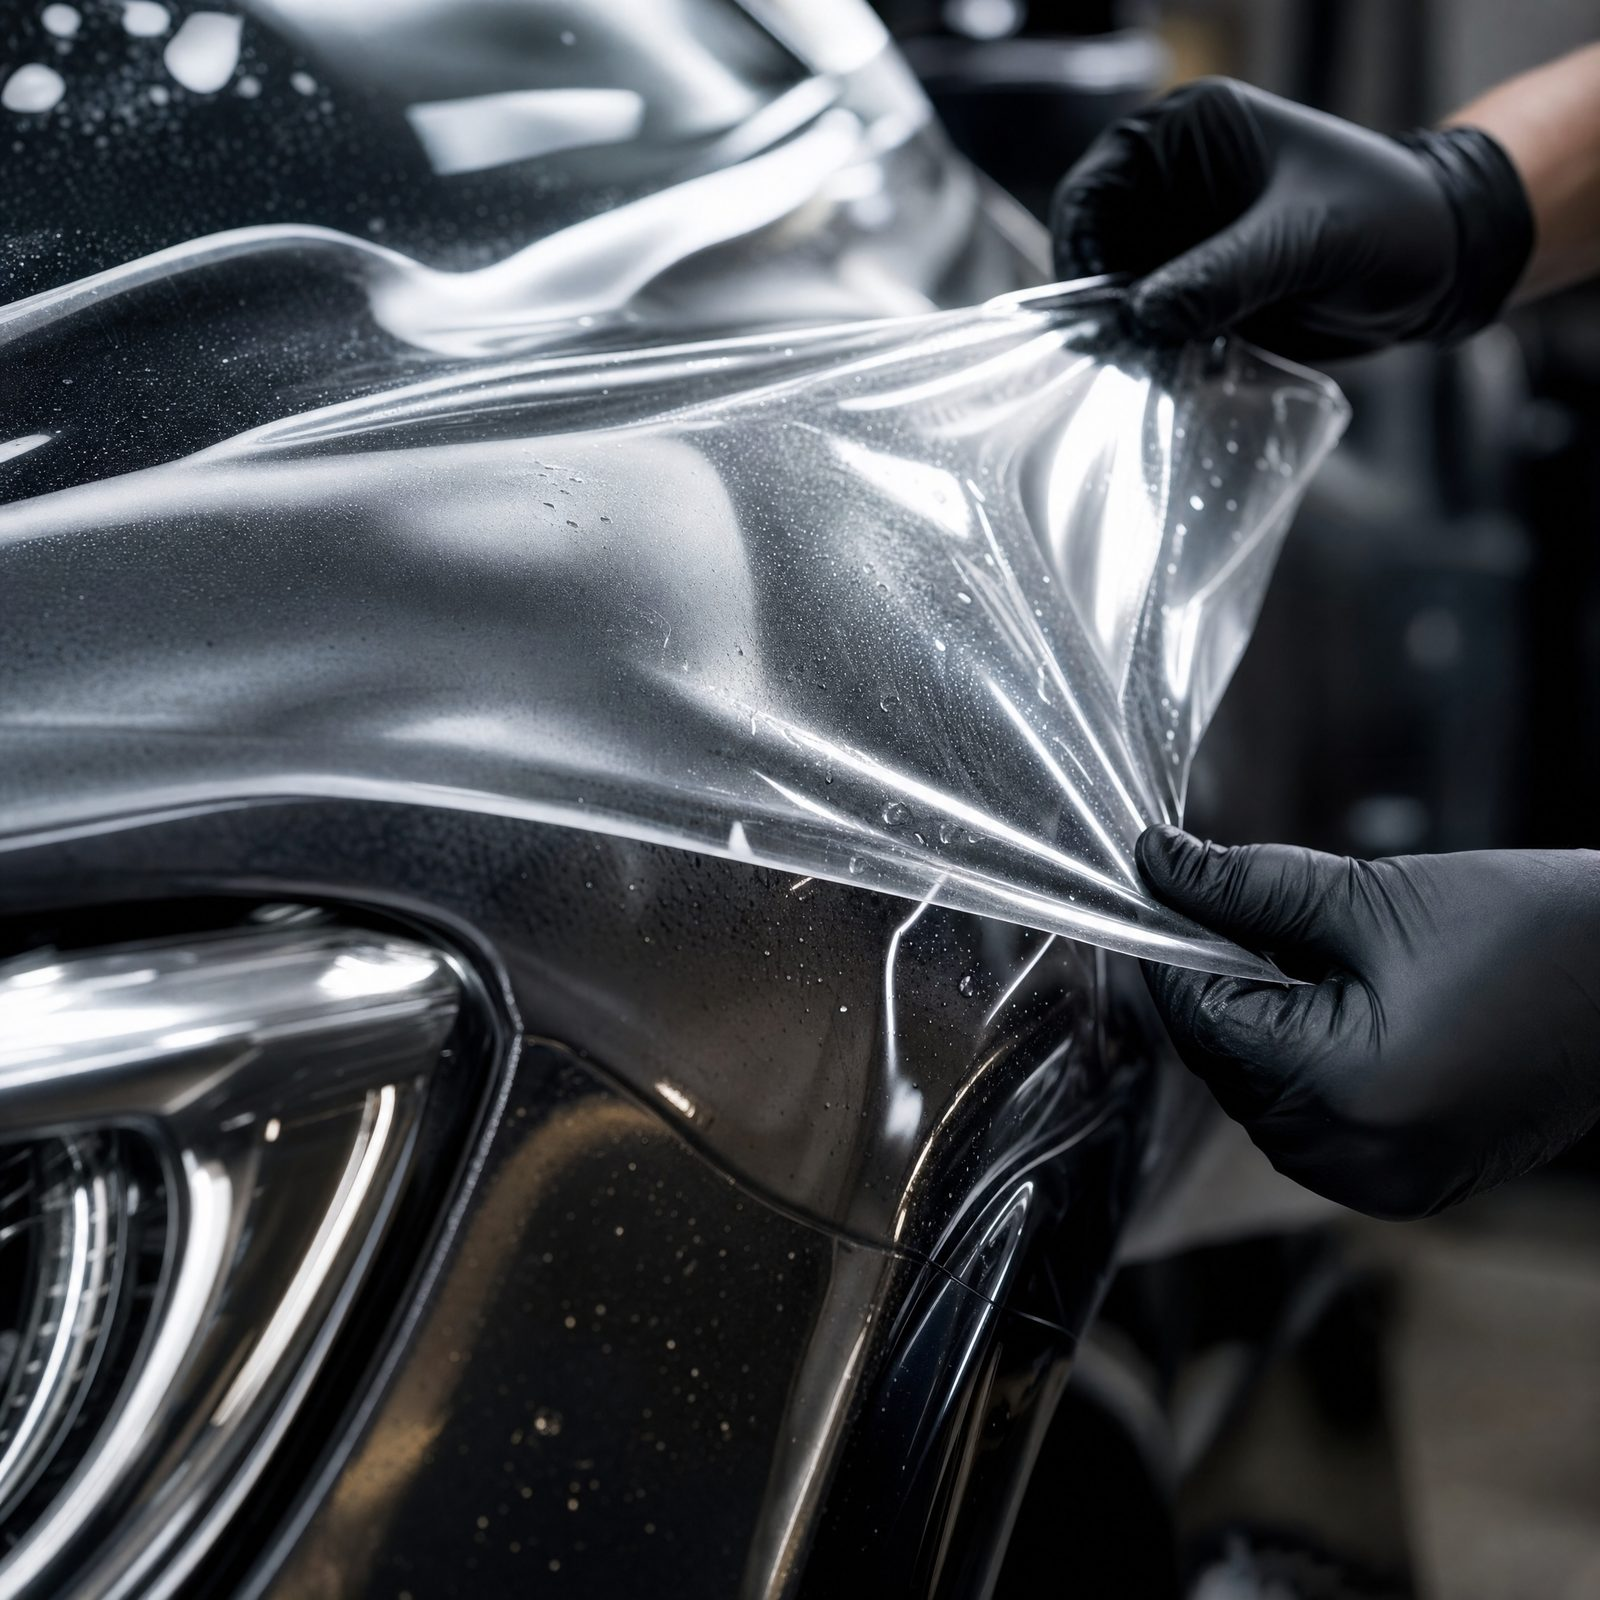
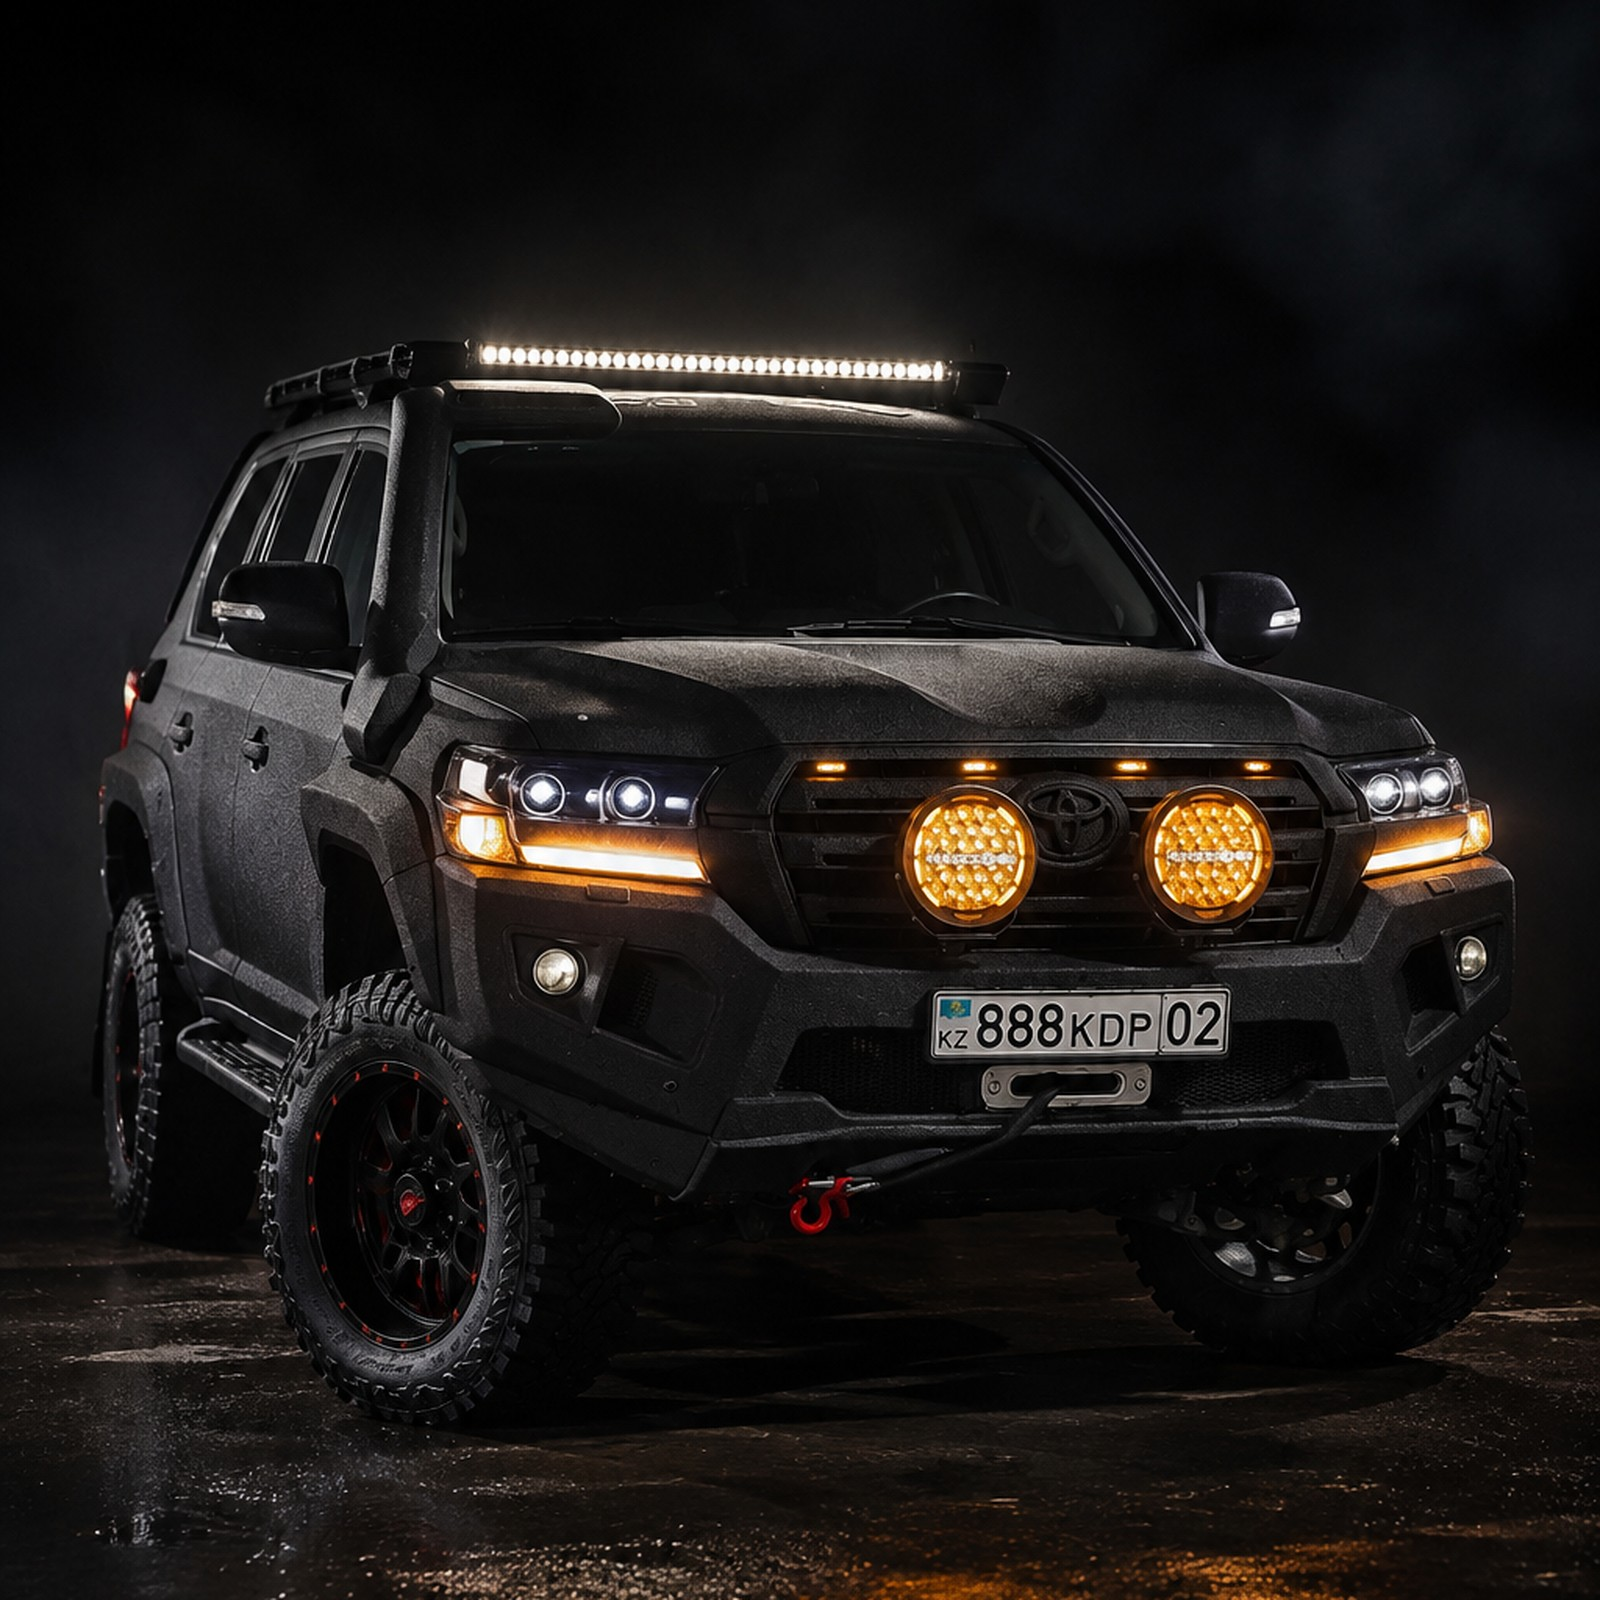
правки

diff --git a/index.html b/index.html
@@ -123,7 +123,8 @@ h2.sec{font-size:clamp(32px,5vw,44px);font-weight:700}
 /* fabs */
 .fabs{position:fixed;right:20px;bottom:20px;z-index:40;display:flex;flex-direction:column;gap:12px}
 .fab{width:48px;height:48px;border-radius:999px;display:grid;place-items:center;color:#fff;font-size:20px;box-shadow:0 8px 20px rgba(0,0,0,.4)}
-.fab.wa{background:#22c55e}
+.fab.wa{background:linear-gradient(135deg,#25d366,#1ea952);border-radius:16px}
+.fab.wa:hover{filter:brightness(1.08)}
 .fab.grad{color:#0d0e10}
 /* modal */
 .modal{position:fixed;inset:0;z-index:60;background:rgba(0,0,0,.7);display:none;place-items:center;padding:16px}
@@ -274,7 +275,7 @@ height="0" width="0" style="display:none;visibility:hidden"></iframe></noscript>
       <input required class="full" name="car" placeholder="Модель автомобиля">
       <label class="filelbl"><span class="ic grad">📷</span><span class="fn">Загрузить фото автомобиля</span><input type="file" accept="image/*" hidden onchange="pickFile(this)"></label>
       <button class="btn grad full" type="submit">Обсудить проект</button>
-      <p class="hint">Нажимая кнопку, вы соглашаетесь на обработку данных. Демо-проект — данные не сохраняются.</p>
+      <p class="hint">Нажимая кнопку, вы соглашаетесь на обработку данных.</p>
     </form>
   </div>
 </div></section>
@@ -284,7 +285,7 @@ height="0" width="0" style="display:none;visibility:hidden"></iframe></noscript>
   <div class="wrap cgrid" style="padding:64px 16px">
     <div>
       <div class="logo disp" style="font-size:30px">PRO<span class="brand">AUTOSVET</span></div>
-      <p class="sub" style="max-width:380px">Комплексная подготовка автомобилей. Учебный демо-проект.</p>
+      <p class="sub" style="max-width:380px">Комплексная подготовка автомобилей.</p>
       <div class="clist">
         <a href="tel:+77778123300"><span class="brand">☎</span>+7 (777) 812-33-00</a>
         <a href="https://wa.me/77778123300" target="_blank" rel="noreferrer"><span class="brand">✆</span>WhatsApp</a>
@@ -300,15 +301,14 @@ height="0" width="0" style="display:none;visibility:hidden"></iframe></noscript>
         <input required name="car" placeholder="Модель автомобиля">
         <label class="filelbl"><span class="ic grad">📷</span><span class="fn">Загрузить фото автомобиля</span><input type="file" accept="image/*" hidden onchange="pickFile(this)"></label>
         <button class="btn grad" type="submit">Отправить заявку</button>
-        <p class="hint">Демо-проект — данные не сохраняются.</p>
       </form>
     </div>
   </div>
-  <div class="copy">© <span id="yr"></span> ProAutosvet — учебная демо-копия. Не является офертой.</div>
+  <div class="copy">© <span id="yr"></span> ProAutosvet. Все права защищены.</div>
 </section>
 
 <div class="fabs">
-  <a class="fab wa" href="https://wa.me/77778123300" target="_blank" rel="noreferrer">✆</a>
+  <a class="fab wa" href="https://wa.me/77778123300" target="_blank" rel="noreferrer" aria-label="WhatsApp"><svg viewBox="0 0 32 32" width="26" height="26" fill="#fff" aria-hidden="true"><path d="M16.004 3C9.106 3 3.51 8.596 3.51 15.494c0 2.55.758 4.923 2.06 6.906L3 29l6.77-2.53a12.44 12.44 0 0 0 6.234 1.67h.005c6.897 0 12.493-5.596 12.493-12.493C28.502 8.75 22.906 3 16.004 3zm7.31 17.86c-.31.87-1.53 1.6-2.51 1.81-.67.14-1.54.25-4.47-.96-3.75-1.55-6.16-5.35-6.35-5.6-.19-.25-1.52-2.02-1.52-3.86 0-1.84.96-2.74 1.31-3.11.31-.33.67-.41.9-.41.22 0 .44.002.63.012.2.01.47-.076.74.564.31.75 1.05 2.59 1.14 2.78.09.19.15.41.03.66-.12.25-.18.4-.36.62-.18.22-.38.49-.54.66-.18.19-.37.4-.16.77.21.37.94 1.55 2.02 2.51 1.39 1.24 2.56 1.63 2.93 1.81.37.19.59.16.81-.09.22-.25.94-1.09 1.19-1.47.25-.37.5-.31.83-.19.34.12 2.14 1.01 2.51 1.2.37.19.61.28.7.44.09.15.09.87-.22 1.74z"/></svg></a>
   <a class="fab grad" href="tel:+77778123300">☎</a>
 </div>
 
@@ -328,7 +328,6 @@ height="0" width="0" style="display:none;visibility:hidden"></iframe></noscript>
       <input required name="car" placeholder="Модель автомобиля">
       <label class="filelbl"><span class="ic grad">📷</span><span class="fn">Загрузить фото автомобиля</span><input type="file" accept="image/*" hidden onchange="pickFile(this)"></label>
       <button class="btn grad" type="submit">Получить визуализацию</button>
-      <p class="hint">Демо-проект — данные не сохраняются.</p>
     </form>
   </div>
 </div>

diff --git a/assets/app.js b/assets/app.js
@@ -16,7 +16,7 @@ var PROJECTS=[
 var SOLUTIONS=[
  {t:"Офроуд-тюнинг",img:"sol-suspension.jpg",d:"Лифт подвески, амортизаторы, внедорожные шины и колёсные диски."},
  {t:"Автосвет",img:"sol-light.jpg",d:"LED-балки, прожекторы, модернизация головного света и доп. освещение."},
- {t:"Защитное покрытие Z pro",img:"sol-protection.jpg",d:"Защитное покрытие Z pro, керамика, силовая защита днища и агрегатов."},
+ {t:"Защитное покрытие Z pro",img:"sol-protection.jpg",d:"Z-PRO — это сверхпрочное защитное покрытие на основе полимочевины. Покрытие предназначено для защиты от коррозии и абразивного износа кузовов автомобилей, железнодорожного транспорта, горно-шахтного оборудования, корпусов яхт и морских судов."},
  {t:"Экспедиционное оборудование",img:"sol-expedition.jpg",d:"Багажники, палатки, маркизы, канистры, крепления и модули хранения."},
  {t:"Силовые элементы",img:"sol-bumper.jpg",d:"Стальные бамперы, лебёдки, пороги, кенгурины и защита."},
  {t:"Тормозные системы",img:"sol-brakes.jpg",d:"Тормозные диски и суппорты увеличенного размера, спортивные колодки и армированные шланги — для уверенного торможения на бездорожье и трассе."},
